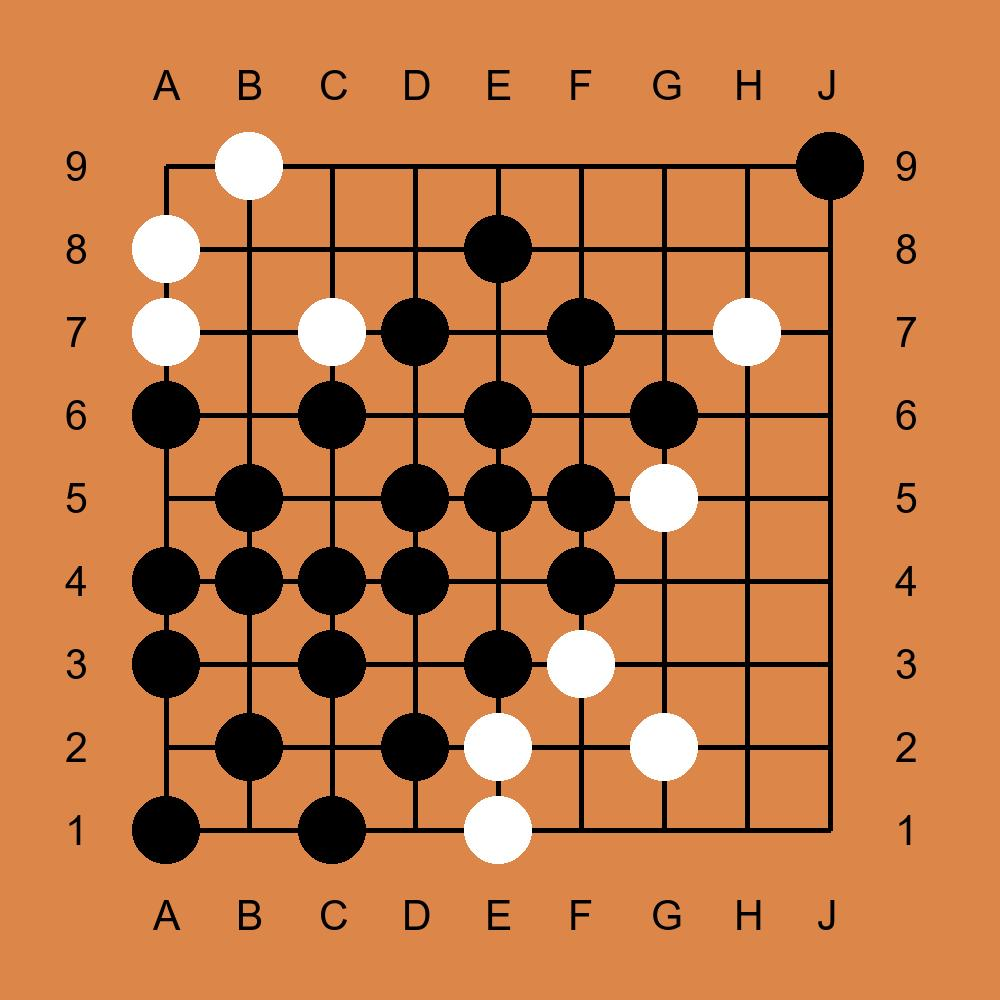
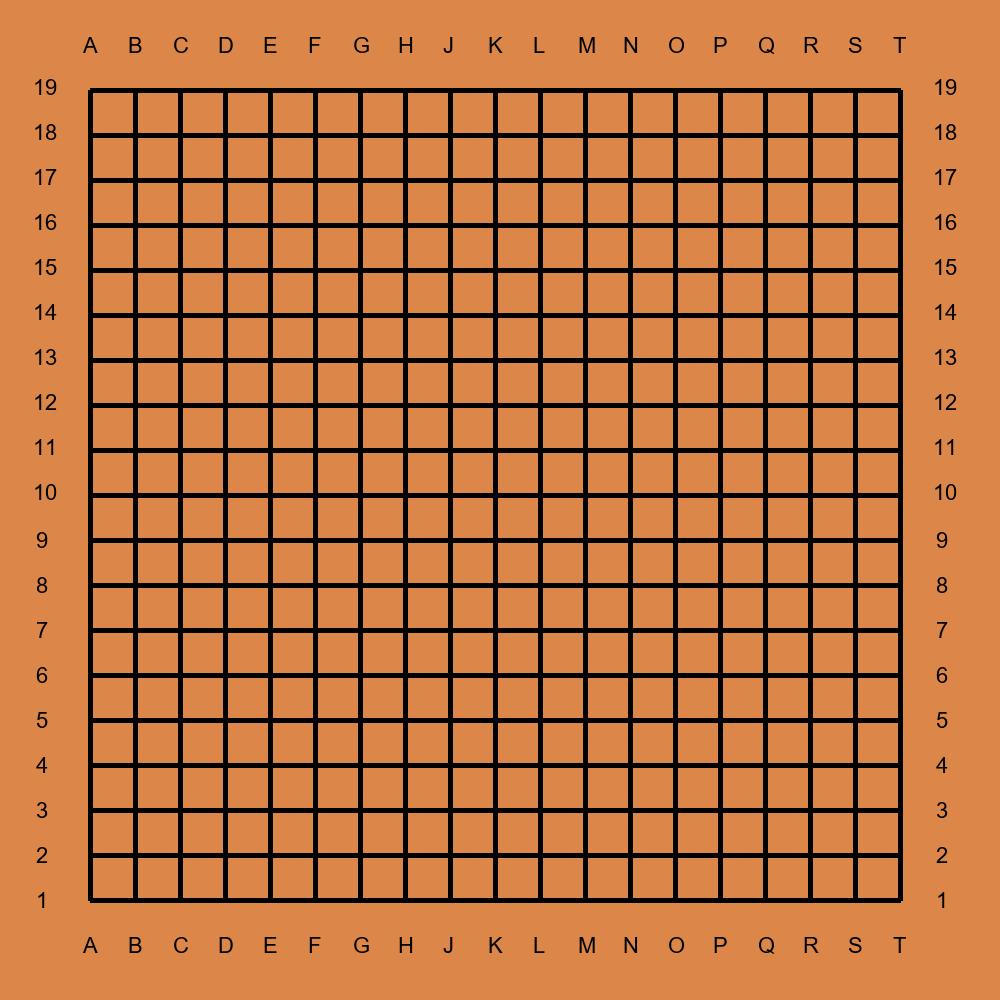
a few fixes

diff --git a/static/scripts/game.js b/static/scripts/game.js
@@ -19,7 +19,7 @@ function postData(input_coordinates, input_size) {
             coordinates: input_coordinates,
             size: input_size
         },
-        success: callbackFunc,
+        success: callbackFunc
     });
 }
 
@@ -48,7 +48,7 @@ setInterval(function UpdatePicture() {
     counter++;
 
     img = new Image();
-    img.src = "/static/game_links/" + game_number + "/game_picture.jpeg?" + counter;
+    img.src = "/static/game_links/" + game_number + "/game_picture.jpeg?counter=" + counter;
     img.onload = function(){
         ctx.drawImage(img, 0, 0, canvas_object.width, canvas_object.height);
     }

diff --git a/static/css/style.css b/static/css/style.css
@@ -1,6 +1,6 @@
 .die
 {
-    background-color: #111111;
+    background-color: #011111;
     display: flex;
     justify-content: space-between;
     padding : 10px;

diff --git a/static/css/game_field.css b/static/css/game_field.css
@@ -9,3 +9,7 @@ canvas {
     left: 0;
     right: 0;
 }
+
+body {
+    background-color: #0F0F0F;
+}

diff --git a/main.py b/main.py
@@ -5,9 +5,9 @@ from field_picture_drawing import update_board_picture
 from preparing import *
 from go import Go
 
-from random import randint
+from random import choice, randint
+from string import printable
 
-from flask import Flask, render_template, redirect, request, make_response, session
 from data import db_session
 from data.users import User
 from data.client import Client
@@ -16,8 +16,8 @@ from forms.login_form import LoginForm
 from forms.register_form import RegisterForm
 
 app = Flask(__name__)
+app.config['SECRET_KEY'] = ''.join([choice(printable) for _ in range(randint(10, 15))])
 
-app.config['SECRET_KEY'] = 'yandexlyceum_secret_key'
 login_manager = LoginManager()
 login_manager.init_app(app)
 
@@ -26,6 +26,7 @@ db_session.global_init('db/users.db')
 client_tuple = {
     '127.0.0.1': [1, 'Test', False]
 }
+
 
 
 @login_manager.user_loader
@@ -163,6 +164,8 @@ def user_data():
 
 @app.route('/trigger_function', methods=['POST'])
 def trigger_function():
+    print(make_response().headers)
+
     if request.method == 'POST':
         game_number = int(request.form["game_number"])
         ip_address = request.access_route[-1]
@@ -210,7 +213,7 @@ def game_field() -> str:
     for key in range(1, COUNT_OF_PLAY_FUNCTIONS + 1):
         if games_dictionary[key] is None:
             games_dictionary[key] = {
-                "game": Go(9),
+                "game": Go(19),
                 "player_1": ip_address,
                 "player_2": None
             }
